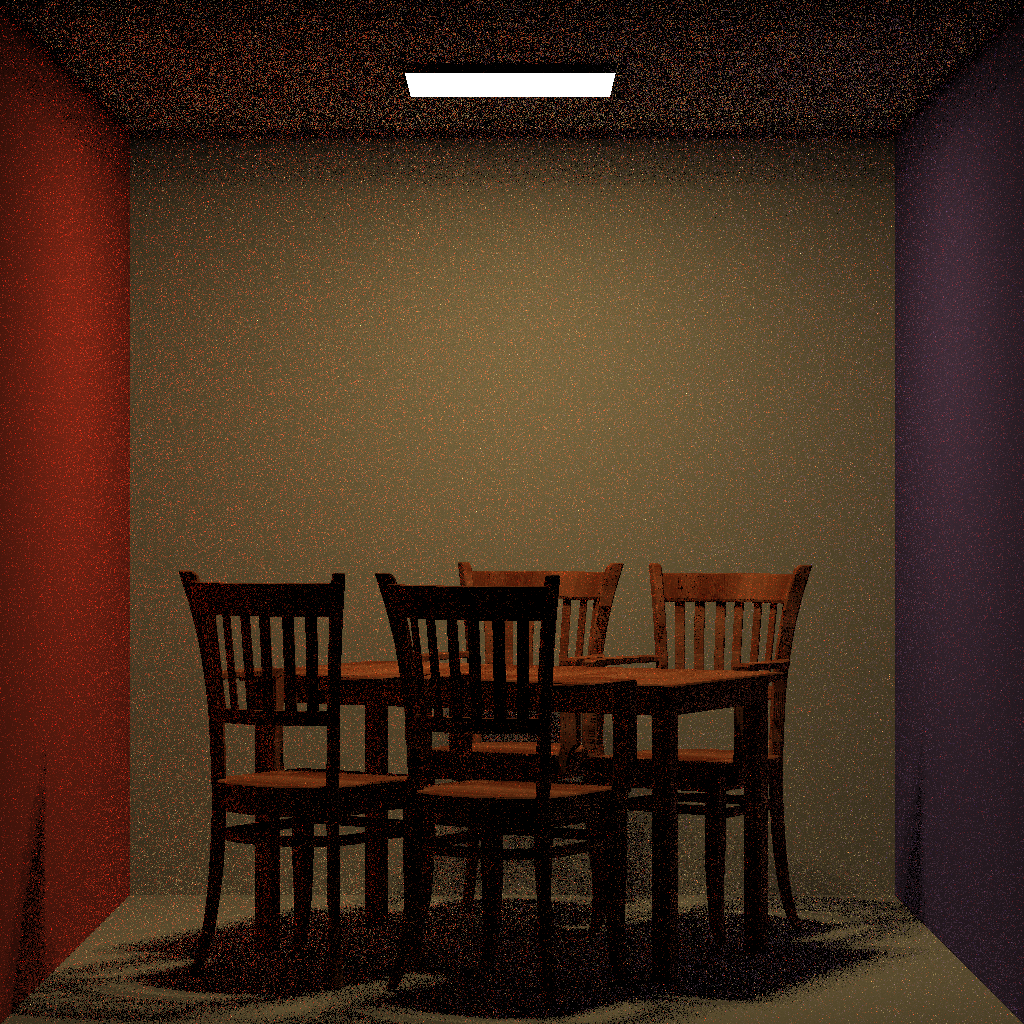
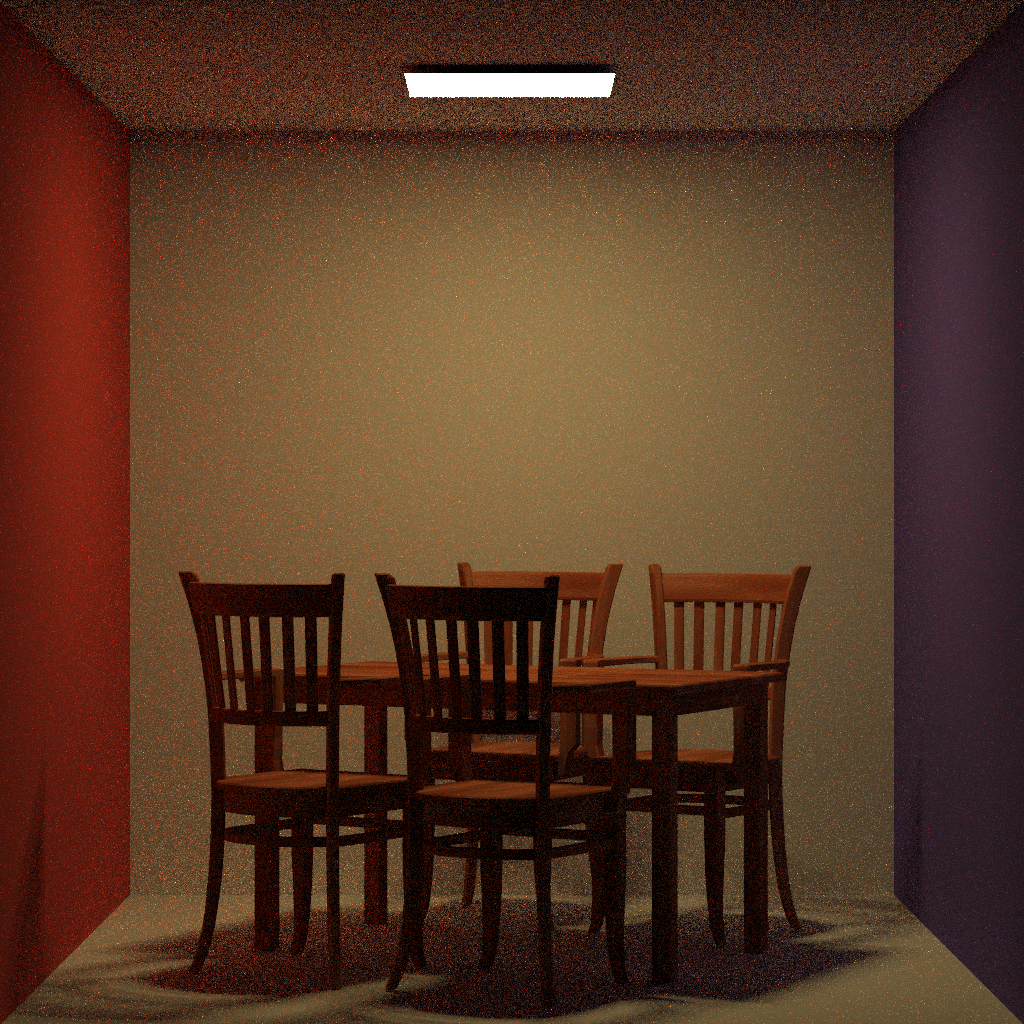
纹理坐标优化，单像素随机采样

diff --git a/montecarlo_ray_trace/shape/Trangle.cpp b/montecarlo_ray_trace/shape/Trangle.cpp
@@ -51,7 +51,9 @@ shared_ptr<IntersectResult> Triangle::intersect(Ray& ray) {
 		res->intersectPoint = O + t * D;
 		res->triangle = this;
 		res->isIntersect = true;
-		return res;
+		res->alpha = 1 - b1 - b2;
+		res->beta = b1;
+		res->gama = b2;
 	}
 	return res;
 }
@@ -89,4 +91,15 @@ glm::vec3 Triangle::getTex(glm::vec3 p, Texture* texMap) {
 	u = u - floor(u);
 	v = v - floor(v);
 	return texMap->get(u, v);
+}
+
+glm::vec3 Triangle::getTex(shared_ptr<IntersectResult> hit, Texture* tex) {
+	float alpha = hit->alpha;
+	float beta = hit->beta;
+	float gama = 1 - alpha - beta;
+	float u = tex1.x * alpha + tex2.x * beta + tex3.x * gama;
+	float v = tex1.y * alpha + tex2.y * beta + tex3.y * gama;
+	u = u - floor(u);
+	v = v - floor(v);
+	return tex->get(v, u);
 }

diff --git a/montecarlo_ray_trace/material/Material.cpp b/montecarlo_ray_trace/material/Material.cpp
@@ -70,15 +70,9 @@ bool isSame(vec3& a, vec3& b) {
 	return fabs(a.x - b.x) < EPSILON && fabs(a.y - b.y) < EPSILON && fabs(a.z - b.z) < EPSILON;
 }
 vec3 Material::BRDF(Ray& out, Ray& in, vec3& N) {
-	vec3 t = Kd + Ks;
-	float rate = sqrt(dot(t, t));
-	if (rate > 1) {
-		Kd /= rate;
-		Ks /= rate;
-	}
 	vec3 res = Kd / PI;
-	vec3 R = normalize(reflect(in, N));
-	res += (Ns + 2)*Ks*powf(fabs(dot(normalize(out.direction), R)), Ns) / (2 * PI);
+	/*vec3 R = normalize(reflect(in, N));
+	res += (Ns + 2)*Ks*powf(fabs(dot(normalize(out.direction), R)), Ns) / (2 * PI);*/
 	return res;
 }
 

diff --git a/montecarlo_ray_trace/main.h b/montecarlo_ray_trace/main.h
@@ -2,7 +2,7 @@
 
 #define INF 9999999.0f
 #define PI 3.1415926f
-#define EPSILON  0.000001f
+#define EPSILON  0.00001f
 #define SCENE_PATH "./scenes/"
 #define SCENE_NAME "cornell-box"
 #define STOP_RATE 0.6f

diff --git a/montecarlo_ray_trace/shape/Shape.h b/montecarlo_ray_trace/shape/Shape.h
@@ -38,5 +38,6 @@ public:
 	glm::vec3 getKd();
 	glm::vec3 getIntensity();
 	glm::vec3 getTex(glm::vec3 p, Texture* tex);
+	glm::vec3 getTex(std::shared_ptr<IntersectResult> hit, Texture* tex);
 };
 

diff --git a/montecarlo_ray_trace/camera/Camera.cpp b/montecarlo_ray_trace/camera/Camera.cpp
@@ -55,8 +55,8 @@ void Camera::bedroomCamera() {
 		glm::vec3(2.699, 1.195, 2.645),
 		glm::vec3(-0.013, 1.000, -0.011),
 		39.4305,
-		320,
-		180
+		1280,
+		720
 	);
 }
 
